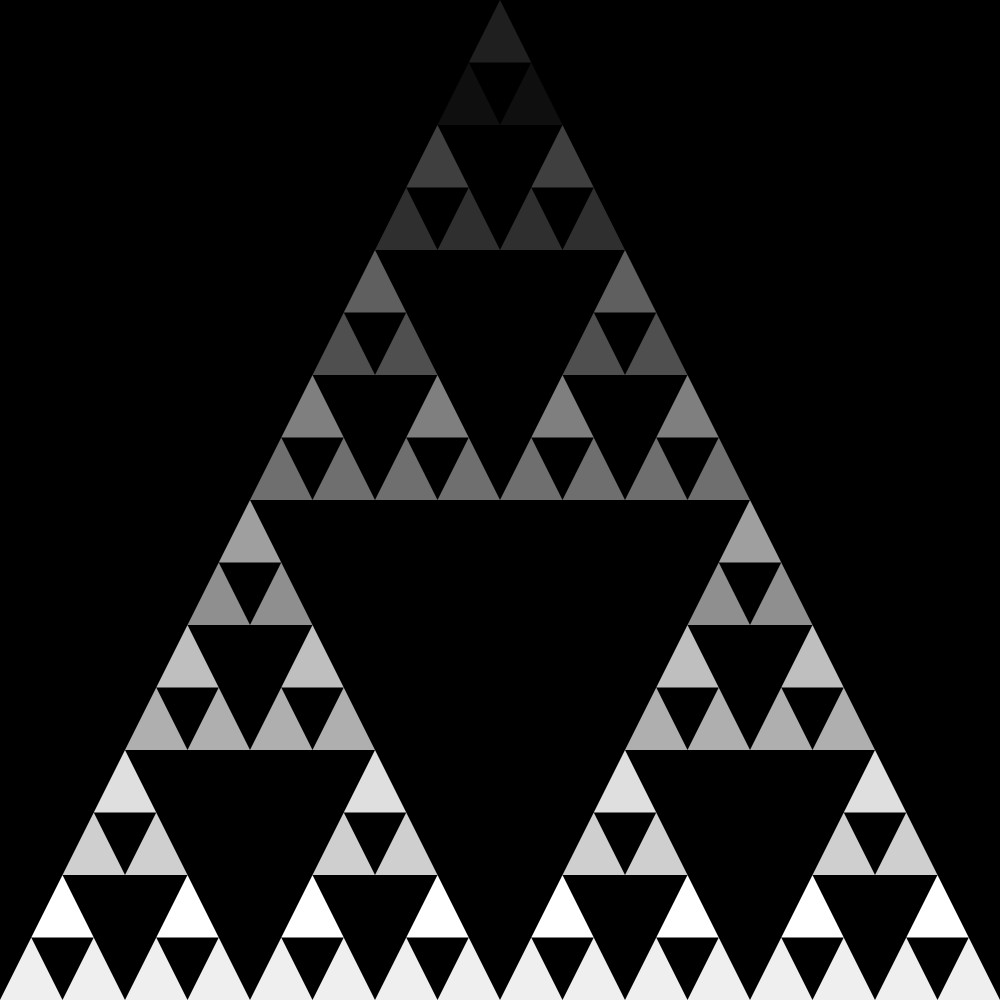
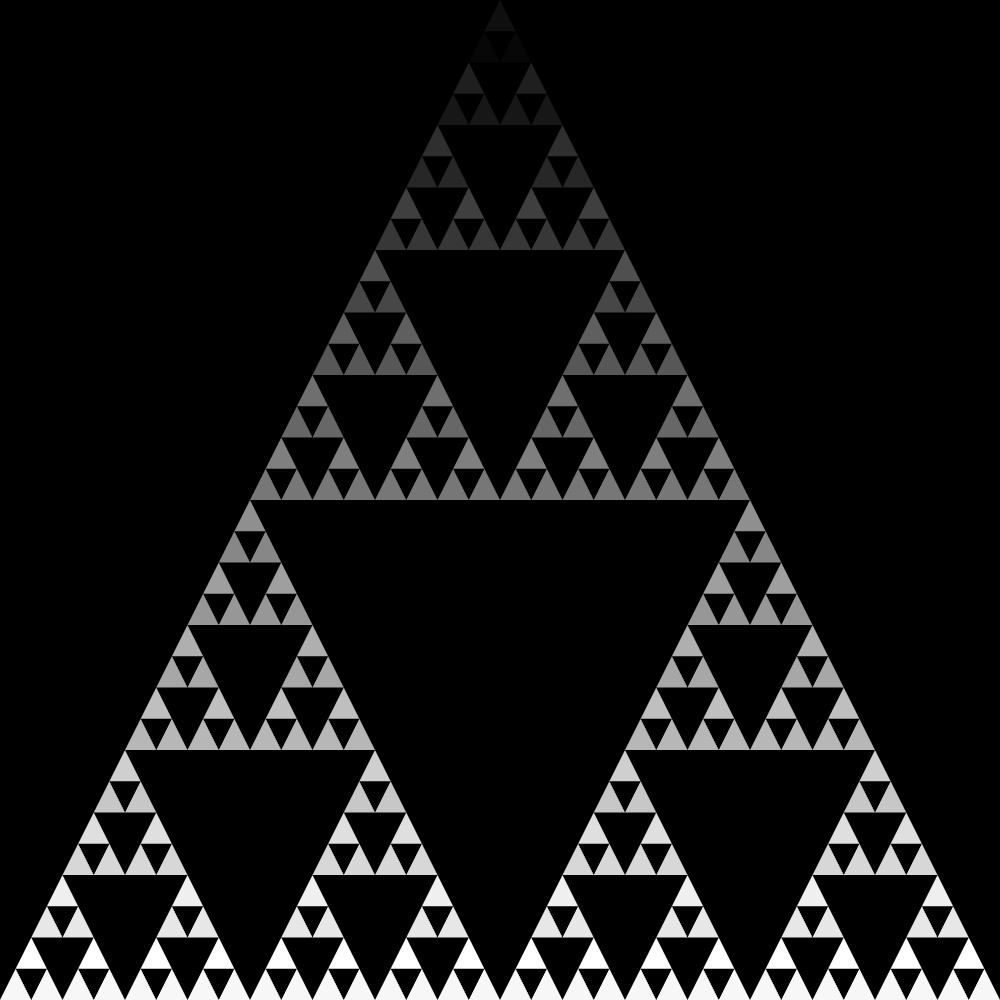
Final Changes

diff --git a/Recursive Graphics/main.cpp b/Recursive Graphics/main.cpp
@@ -120,7 +120,7 @@ int main() {
     } else if (windowSelection == 1) {
         //set window to sierpinski's triangle
         SierpinskiTriangle ST;
-        ST.generateSierpinskiTriangle(width, height, iterations, startColor, window);
+        ST.generateSierpinskiTriangle(width, width*sqrt(3)/2, iterations, startColor, window);
     } else if (windowSelection == 2) {
         //set window to koch's snowflake
         KochSnowflake KS(iterations+1, width, height, type, startColor, &window);

diff --git a/Recursive Graphics/Headers/KochSnowflake.hpp b/Recursive Graphics/Headers/KochSnowflake.hpp
@@ -4,7 +4,7 @@
 #include <stdio.h>
 #include <SFML/Graphics.hpp>
 #include <vector>
-#include <math.h>
+#include <cmath>
 #include <iostream>
 
 class KochSnowflake{
